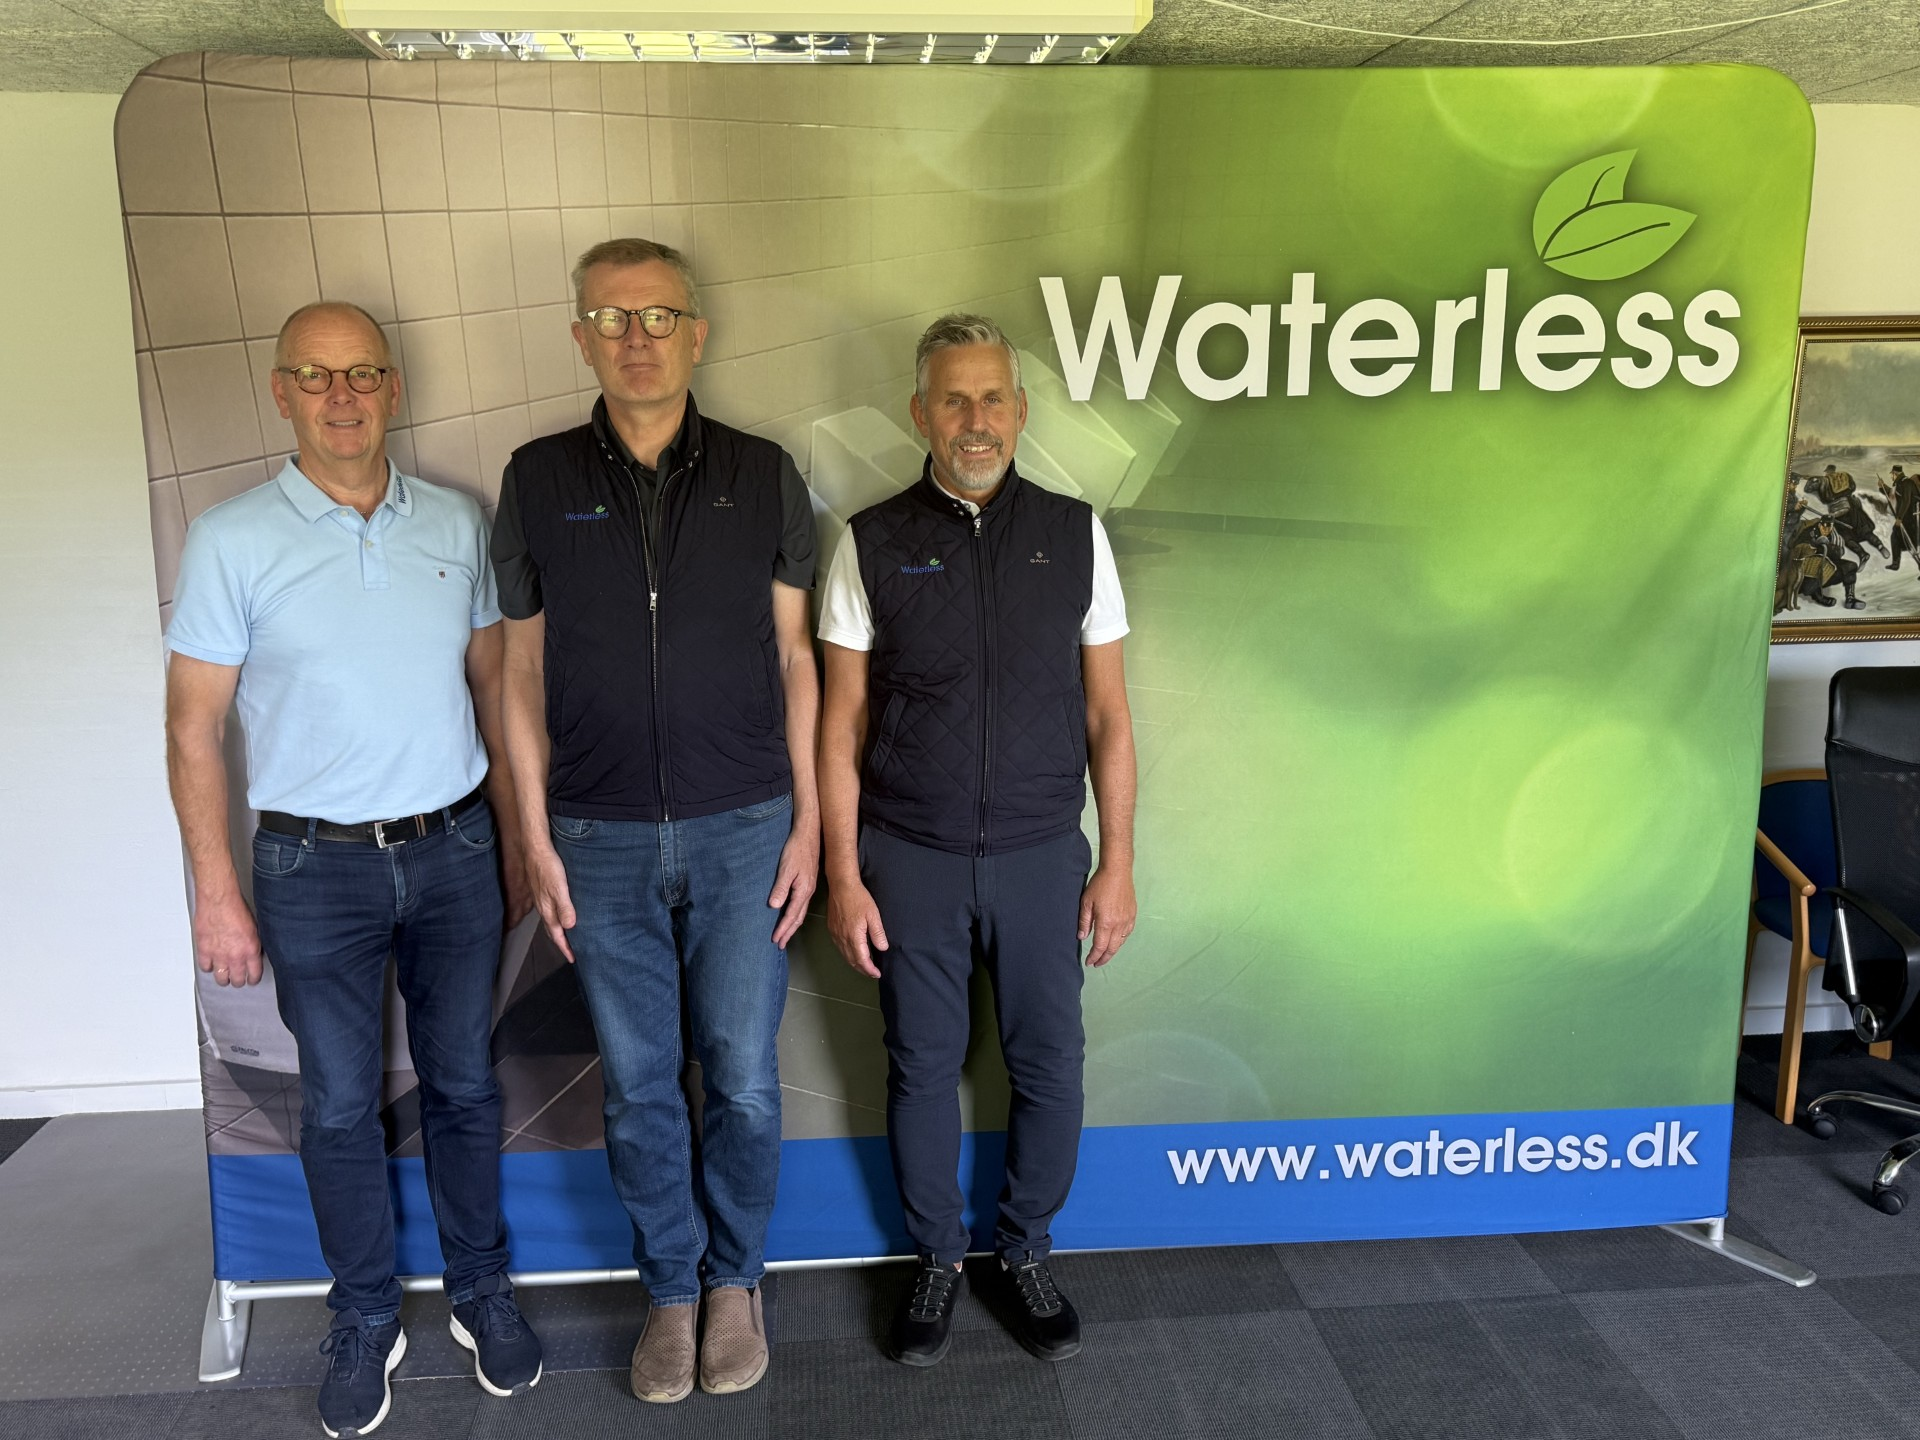
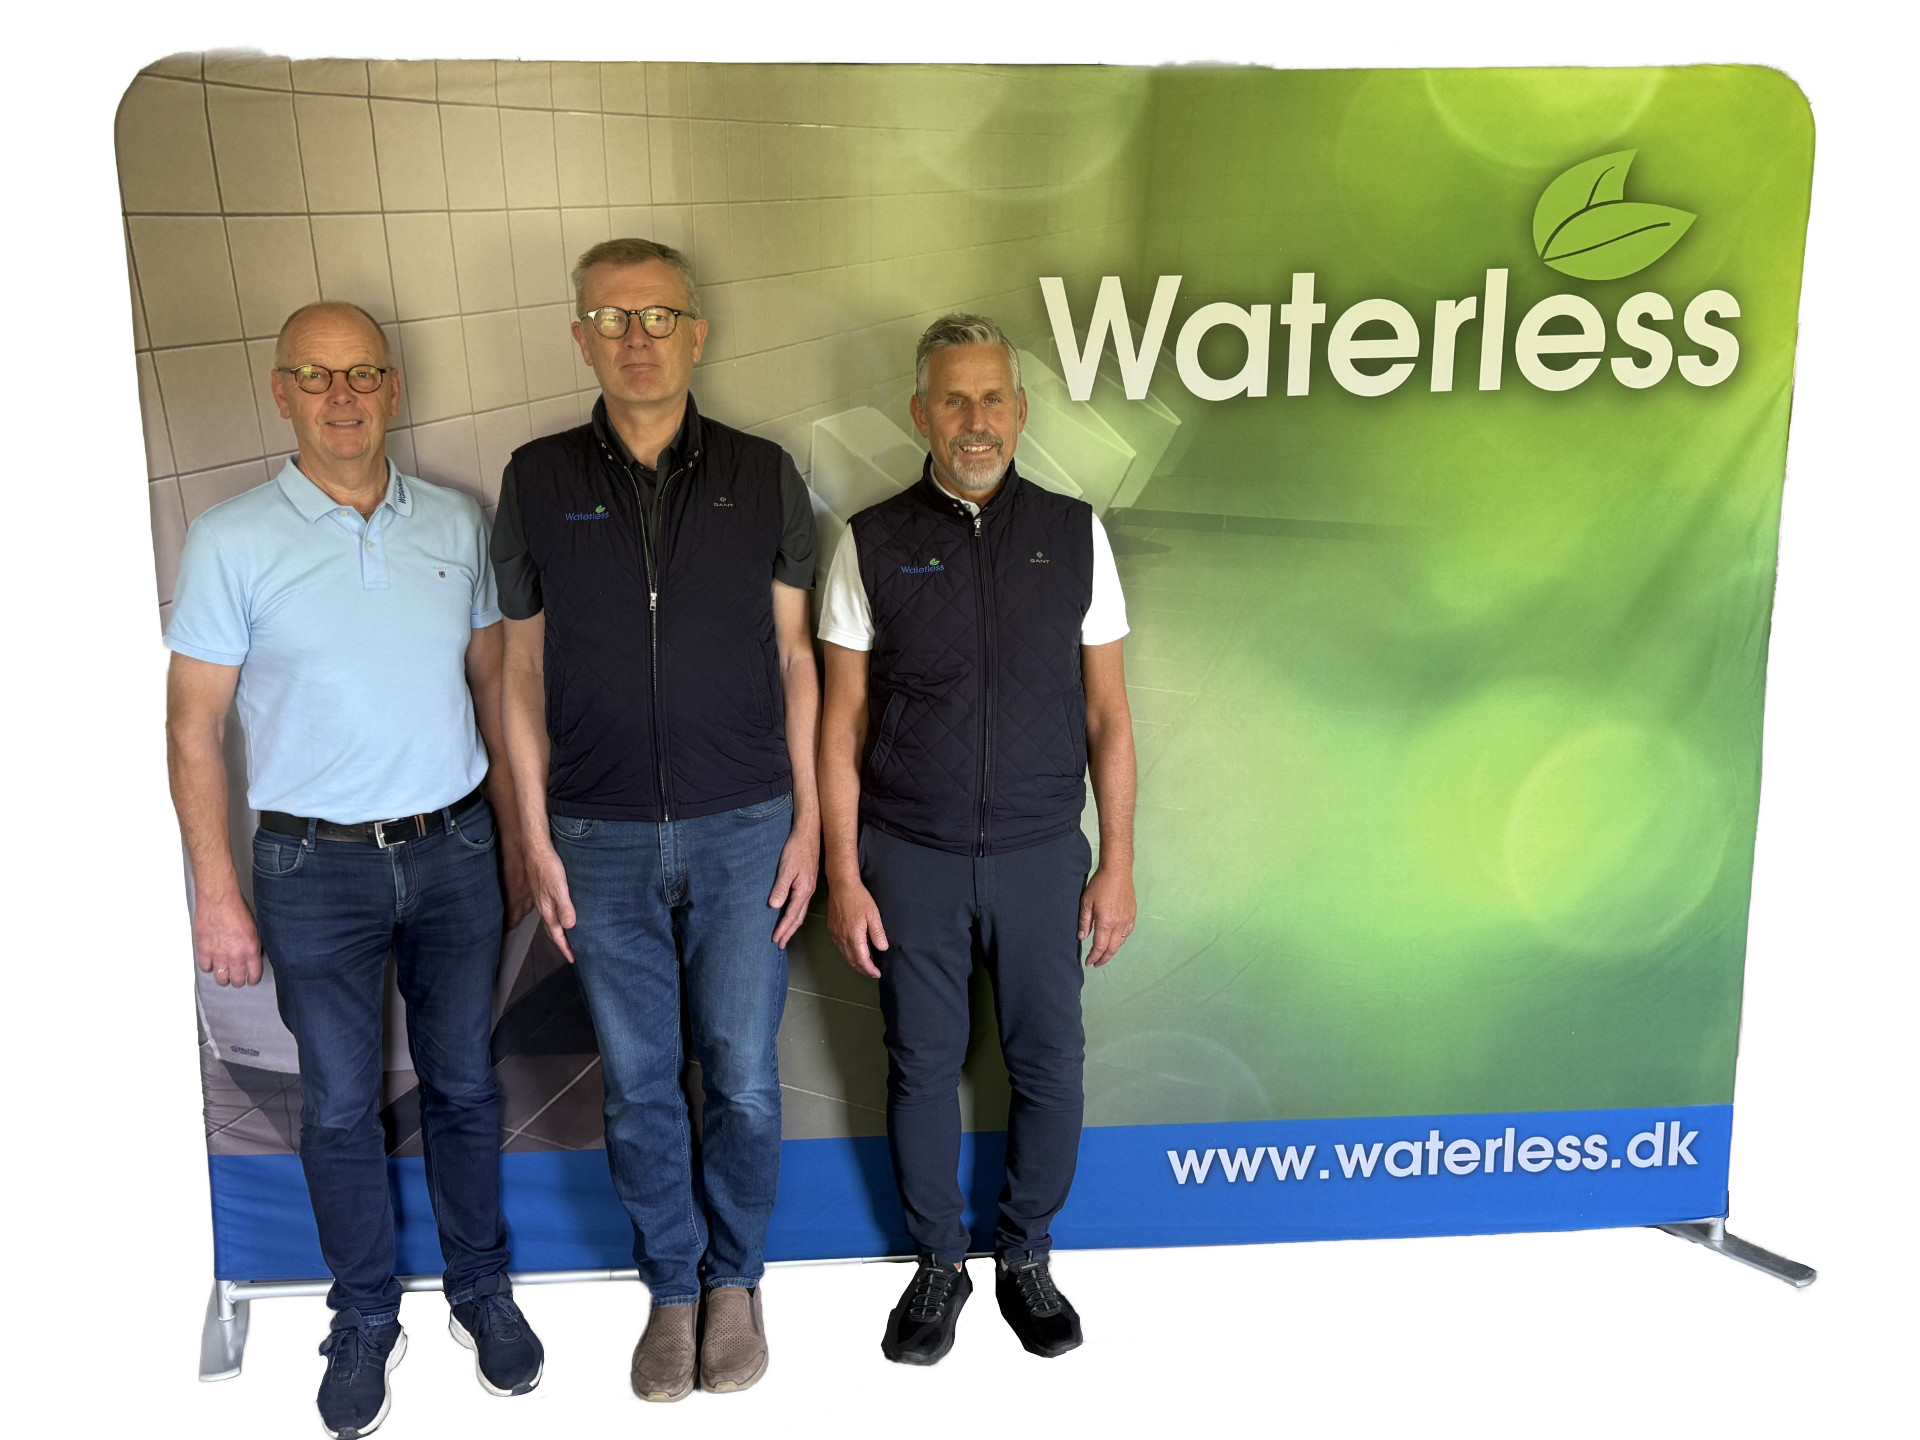
Updated teams image & added functionality to add multiple product info links

Changed region(s): [[0.0, 0.0, 1.0, 1.0]]

diff --git a/wp-theme/waterless/css/responsive.css b/wp-theme/waterless/css/responsive.css
@@ -19,6 +19,14 @@
         transition: all 0.3s ease;
     }
 
+    .dropdown-content{
+        display:block;
+    }
+
+    .menu-icon{
+        width: 100%;
+    }
+
     .menu.show{
         left: 0;
     }

diff --git a/wp-theme/waterless/style.css b/wp-theme/waterless/style.css
@@ -39,6 +39,12 @@ Version: 1.0
     align-items: center;
 }
 
+.menu-icon{
+    width: 100%;
+    height: 180px;
+    object-fit: cover;
+}
+
 .logo {
     height: 50px;
     width: auto;

diff --git a/wp-theme/waterless/single-product.php b/wp-theme/waterless/single-product.php
@@ -51,47 +51,70 @@ $compatible_urinals  = get_post_meta(get_the_ID(), '_compatible_urinals', true);
                 <a class="cta" href="#">How to use?</a>
             </article>
             <?php
-                if(get_post_meta(get_the_ID(), 'dimension_height', true) != ""
-                    && get_post_meta(get_the_ID(), 'dimension_width', true) != ""
-                        && get_post_meta(get_the_ID(), 'dimension_depth', true) != ""
-                    ):
+            if (
+                get_post_meta(get_the_ID(), 'dimension_height', true) != ""
+                && get_post_meta(get_the_ID(), 'dimension_width', true) != ""
+                && get_post_meta(get_the_ID(), 'dimension_depth', true) != ""
+            ):
             ?>
-            <article>
-                <h3>Dimensions</h3>
-                <ul>
-                    <li>Højde: <?php echo esc_html(get_post_meta(get_the_ID(), 'dimension_height', true)); ?> mm</li>
-                    <li>Bredde: <?php echo esc_html(get_post_meta(get_the_ID(), 'dimension_width', true)); ?> mm</li>
-                    <li>Dybdde: <?php echo esc_html(get_post_meta(get_the_ID(), 'dimension_depth', true)); ?> mm</li>
-                </ul>
-            </article>
-            <?php 
-                endif;
+                <article>
+                    <h3>Dimensions</h3>
+                    <ul>
+                        <li>Højde: <?php echo esc_html(get_post_meta(get_the_ID(), 'dimension_height', true)); ?> mm</li>
+                        <li>Bredde: <?php echo esc_html(get_post_meta(get_the_ID(), 'dimension_width', true)); ?> mm</li>
+                        <li>Dybdde: <?php echo esc_html(get_post_meta(get_the_ID(), 'dimension_depth', true)); ?> mm</li>
+                    </ul>
+                </article>
+            <?php
+            endif;
             ?>
             <?php
-                if(get_post_meta(get_the_ID(), 'material', true) != ""):
+            if (get_post_meta(get_the_ID(), 'material', true) != ""):
             ?>
-            <article>
-                <h3>Material</h3>
-                <p><?php echo esc_html(get_post_meta(get_the_ID(), 'material', true)) ?></p>
-            </article>
+                <article>
+                    <h3>Material</h3>
+                    <p><?php echo esc_html(get_post_meta(get_the_ID(), 'material', true)) ?></p>
+                </article>
             <?php
-                endif;
+            endif;
             ?>
             <article class="--stretched">
                 <h3>Farve</h3>
                 <p><?php echo esc_html(get_post_meta(get_the_ID(), 'color', true)); ?></p>
                 <section>
                     <?php
-                        if(get_post_meta(get_the_ID(), 'plumbing_no', true) != ""):
+                    if (get_post_meta(get_the_ID(), 'plumbing_no', true) != ""):
                     ?>
-                    <p>VVS nr.: <?php echo esc_html(get_post_meta(get_the_ID(), 'plumbing_no', true)); ?></p>
-                    <?php endif;?>
+                        <p>VVS nr.: <?php echo esc_html(get_post_meta(get_the_ID(), 'plumbing_no', true)); ?></p>
+                    <?php endif; ?>
                     <p>Waterless nr.: <?php echo esc_html(get_post_meta(get_the_ID(), 'waterless_no', true)); ?></p>
                 </section>
                 <section>
                     <p><?php echo apply_filters('the_content', get_post_field('post_content', get_the_ID())) ?></p>
                 </section>
             </article>
+            <?php if (get_post_meta(get_the_ID(), "product_links", true)):
+            ?>
+                <article class="--stretched">
+                    <h3>Produktblade</h3>
+                    <?php
+                    $links = get_post_meta(get_the_ID(), 'product_links', true);
+
+                    if (!empty($links)) {
+                        foreach ($links as $link) {
+                            printf(
+                                '<a href="%s" target="_blank">%s</a><br>',
+                                esc_url($link['url']),
+                                esc_html($link['text'])
+                            );
+                        }
+                    }
+
+                    ?>
+                </article>
+            <?php
+            endif;
+            ?>
             <article class="--stretched">
                 <h3>Teknisk data</h3>
                 <?php if ($cad = get_post_meta(get_the_ID(), 'cad_file', true)) : ?>
@@ -187,6 +210,4 @@ $compatible_urinals  = get_post_meta(get_the_ID(), '_compatible_urinals', true);
         }
     }
 </script>
-<?php
-include_once 'components/footer.php';
-?>
+<?php get_footer(); ?>

diff --git a/wp-theme/waterless/functions.php b/wp-theme/waterless/functions.php
@@ -389,6 +389,7 @@ add_action('add_meta_boxes', 'waterless_add_product_meta_boxes');
 
 
 // 3. Render meta box
+// 3. Render Product Meta Box
 function waterless_render_product_meta_box($post)
 {
     $fields = [
@@ -401,14 +402,67 @@ function waterless_render_product_meta_box($post)
         'waterless_no'     => 'Waterless no.',
         'cad_file'         => 'CAD File URL',
         'zip_file'         => 'Zip File URL',
-        'drawing_file'     => 'Technical Drawing URL',
+        'drawing_file'     => 'Technical Drawing URL'
     ];
 
+    // Regular fields
     foreach ($fields as $key => $label) {
         $value = get_post_meta($post->ID, $key, true);
-        $type = strpos($key, '_file') !== false ? 'url' : 'text';
-        echo "<p><label>{$label}: <input type='{$type}' name='{$key}' value='" . esc_attr($value) . "'></label></p>";
+        $type  = strpos($key, '_file') !== false ? 'url' : 'text';
+        echo "<p><label>{$label}: <input type='{$type}' name='{$key}' value='" . esc_attr($value) . "' style='width:100%;'></label></p>";
     }
+
+    // Link section
+    $links = get_post_meta($post->ID, 'product_links', true);
+    $links = is_array($links) ? $links : [];
+
+    echo "<hr><h4>Product Links</h4>";
+    echo "<div id='product-links-wrapper'>";
+
+    if (!empty($links)) {
+        foreach ($links as $index => $link) {
+            $url = esc_url($link['url']);
+            $text = esc_html($link['text']);
+            echo "
+            <div class='product-link-row' style='margin-bottom:10px;'>
+                <input type='url' name='product_links[{$index}][url]' value='{$url}' placeholder='Link URL' style='width:48%; margin-right:2%;'>
+                <input type='text' name='product_links[{$index}][text]' value='{$text}' placeholder='Link text' style='width:48%;'>
+                <button type='button' class='button remove-product-link'>Remove</button>
+            </div>";
+        }
+    }
+
+    echo "</div>
+        <button type='button' class='button' id='add-product-link'>Add New Link</button>
+
+        <script>
+        document.addEventListener('DOMContentLoaded', function() {
+            const wrapper = document.getElementById('product-links-wrapper');
+            const addBtn = document.getElementById('add-product-link');
+            let index = " . count($links) . ";
+
+            addBtn.addEventListener('click', function() {
+                const div = document.createElement('div');
+                div.classList.add('product-link-row');
+                div.style.marginBottom = '10px';
+                div.innerHTML = `
+                    <input type='url' name='product_links[\${index}][url]' placeholder='Link URL' style='width:48%; margin-right:2%;'>
+                    <input type='text' name='product_links[\${index}][text]' placeholder='Link text' style='width:48%;'>
+                    <button type='button' class='button remove-product-link'>Remove</button>
+                `;
+                wrapper.appendChild(div);
+                index++;
+            });
+
+            wrapper.addEventListener('click', function(e) {
+                if (e.target.classList.contains('remove-product-link')) {
+                    e.preventDefault();
+                    e.target.closest('.product-link-row').remove();
+                }
+            });
+        });
+        </script>
+    ";
 }
 
 // 4. Save meta box values
@@ -429,11 +483,29 @@ function waterless_save_product_meta($post_id)
 
     foreach ($fields as $field) {
         if (isset($_POST[$field])) {
-            $value = strpos($field, '_file') !== false ? esc_url_raw($_POST[$field]) : sanitize_text_field($_POST[$field]);
+            $value = strpos($field, '_file') !== false
+                ? esc_url_raw($_POST[$field])
+                : sanitize_text_field($_POST[$field]);
             update_post_meta($post_id, $field, $value);
         }
     }
+
+    // Handle links
+    if (isset($_POST['product_links']) && is_array($_POST['product_links'])) {
+        $clean_links = [];
+        foreach ($_POST['product_links'] as $link) {
+            if (empty($link['url']) || empty($link['text'])) continue;
+            $clean_links[] = [
+                'url'  => esc_url_raw($link['url']),
+                'text' => sanitize_text_field($link['text'])
+            ];
+        }
+        update_post_meta($post_id, 'product_links', $clean_links);
+    } else {
+        delete_post_meta($post_id, 'product_links');
+    }
 }
+
 add_action('save_post_product', 'waterless_save_product_meta');
 
 function waterless_customize_register_products_page($wp_customize)
